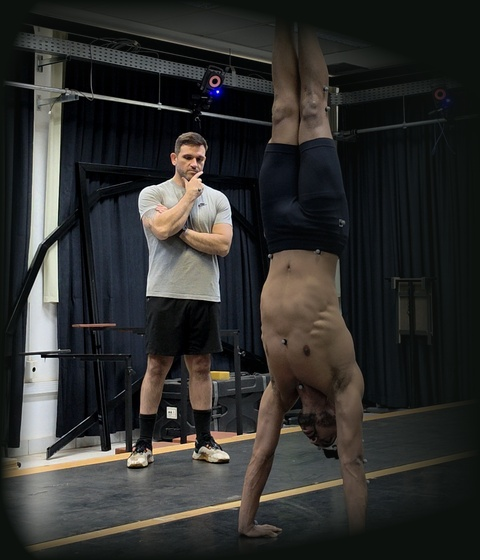
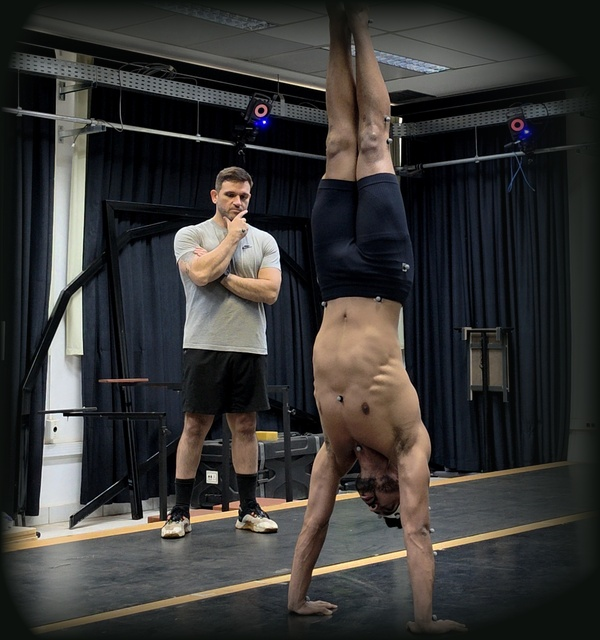
feat(analysis): expand handstand athlete visibility in hero card, generalize text, and add corrective drills chip

diff --git a/demo_treino_completo.html b/demo_treino_completo.html
@@ -279,8 +279,8 @@
     }
     .analysis-hero-img-wrap {
       position: relative;
-      flex: 0 0 160px;
-      min-height: 155px;
+      flex: 0 0 220px;
+      min-height: 165px;
       overflow: hidden;
     }
     .analysis-hero-img-wrap img {
@@ -296,13 +296,13 @@
       top: 0;
       right: 0;
       bottom: 0;
-      width: 60px;
+      width: 32px;
       background: linear-gradient(to right, transparent, #0d110e);
       pointer-events: none;
     }
     .analysis-hero-body {
       flex: 1;
-      padding: 14px 16px 14px 8px;
+      padding: 14px 18px 14px 12px;
       display: flex;
       flex-direction: column;
       justify-content: center;
@@ -346,20 +346,29 @@
       padding: 2px 7px;
       font-weight: 600;
     }
-    @media (max-width: 480px) {
+    @media (max-width: 600px) {
       .analysis-hero-img-wrap {
-        flex: 0 0 130px;
-        min-height: 140px;
+        flex: 0 0 180px;
+        min-height: 150px;
       }
       .analysis-hero-body {
-        padding: 10px 12px 10px 4px;
+        padding: 12px 14px 12px 8px;
+      }
+    }
+    @media (max-width: 440px) {
+      .analysis-hero-img-wrap {
+        flex: 0 0 155px;
+        min-height: 145px;
+      }
+      .analysis-hero-body {
+        padding: 10px 10px 10px 6px;
       }
       .analysis-hero-title {
         font-size: 0.88rem;
       }
       .analysis-hero-desc {
-        font-size: 0.73rem;
-        line-height: 1.4;
+        font-size: 0.72rem;
+        line-height: 1.38;
       }
     }
 
@@ -1959,7 +1968,7 @@
     <!-- HERO: FEEDBACK TÉCNICO & ANÁLISE CINEMÁTICA -->
     <div class="analysis-hero-card">
       <div class="analysis-hero-img-wrap" onclick="window.open('Midia/gui_analisando_handstand.jpg', '_blank')" style="cursor: pointer;" title="Toque para ampliar foto">
-        <img src="Midia/gui_analise_blend.jpg" alt="Prof. Gui Lemos analisando Handstand">
+        <img src="Midia/gui_analise_blend.jpg" alt="Prof. Gui Lemos analisando movimento">
       </div>
       <div class="analysis-hero-body">
         <div class="analysis-hero-tag">
@@ -1968,12 +1977,12 @@
         </div>
         <div class="analysis-hero-title">Devolutiva do Professor Gui Lemos</div>
         <div class="analysis-hero-desc">
-          Mapeamento milimétrico de alavancas, torques articulares e trajetória do centro de massa aplicado diretamente às suas execuções em vídeo.
+          Mapeamento detalhado de ângulos, alavancas e trajetórias para identificar compensações e prescrever ajustes precisos em qualquer movimento do seu treino.
         </div>
         <div class="analysis-hero-chips">
-          <span class="analysis-hero-chip">📐 Correção de Alavancas</span>
-          <span class="analysis-hero-chip">⚡ Torques & CoM</span>
-          <span class="analysis-hero-chip">🎥 Devolutiva em Vídeo</span>
+          <span class="analysis-hero-chip">📐 Ângulos & Alavancas</span>
+          <span class="analysis-hero-chip">⚡ Correção de Compensações</span>
+          <span class="analysis-hero-chip">🎯 Educativos para Pontos Fracos</span>
         </div>
       </div>
     </div>

diff --git a/index.html b/index.html
@@ -646,8 +646,8 @@
     }
     .analysis-hero-img-wrap {
       position: relative;
-      flex: 0 0 160px;
-      min-height: 155px;
+      flex: 0 0 220px;
+      min-height: 165px;
       overflow: hidden;
     }
     .analysis-hero-img-wrap img {
@@ -663,13 +663,13 @@
       top: 0;
       right: 0;
       bottom: 0;
-      width: 60px;
+      width: 32px;
       background: linear-gradient(to right, transparent, #0d110e);
       pointer-events: none;
     }
     .analysis-hero-body {
       flex: 1;
-      padding: 14px 16px 14px 8px;
+      padding: 14px 18px 14px 12px;
       display: flex;
       flex-direction: column;
       justify-content: center;
@@ -713,20 +713,29 @@
       padding: 2px 7px;
       font-weight: 600;
     }
-    @media (max-width: 480px) {
+    @media (max-width: 600px) {
       .analysis-hero-img-wrap {
-        flex: 0 0 130px;
-        min-height: 140px;
+        flex: 0 0 180px;
+        min-height: 150px;
       }
       .analysis-hero-body {
-        padding: 10px 12px 10px 4px;
+        padding: 12px 14px 12px 8px;
+      }
+    }
+    @media (max-width: 440px) {
+      .analysis-hero-img-wrap {
+        flex: 0 0 155px;
+        min-height: 145px;
+      }
+      .analysis-hero-body {
+        padding: 10px 10px 10px 6px;
       }
       .analysis-hero-title {
         font-size: 0.88rem;
       }
       .analysis-hero-desc {
-        font-size: 0.73rem;
-        line-height: 1.4;
+        font-size: 0.72rem;
+        line-height: 1.38;
       }
     }
 
@@ -1964,7 +1973,7 @@
     <!-- HERO: FEEDBACK TÉCNICO & ANÁLISE CINEMÁTICA -->
     <div class="analysis-hero-card">
       <div class="analysis-hero-img-wrap" onclick="window.open('Midia/gui_analisando_handstand.jpg', '_blank')" style="cursor: pointer;" title="Toque para ampliar foto">
-        <img src="Midia/gui_analise_blend.jpg" alt="Prof. Gui Lemos analisando Handstand">
+        <img src="Midia/gui_analise_blend.jpg" alt="Prof. Gui Lemos analisando movimento">
       </div>
       <div class="analysis-hero-body">
         <div class="analysis-hero-tag">
@@ -1973,12 +1982,12 @@
         </div>
         <div class="analysis-hero-title">Precisão Biomecânica do Movimento</div>
         <div class="analysis-hero-desc">
-          Mapeamento milimétrico de alavancas, torques articulares e trajetória do centro de massa para correção e evolução técnica contínua.
+          Mapeamento detalhado de ângulos, alavancas e trajetórias para identificar compensações e prescrever ajustes precisos em qualquer movimento acrobático, gímnico ou de força.
         </div>
         <div class="analysis-hero-chips">
           <span class="analysis-hero-chip">📐 Ângulos & Alavancas</span>
-          <span class="analysis-hero-chip">⚡ Torques & CoM</span>
-          <span class="analysis-hero-chip">🎥 Devolutivas em Vídeo</span>
+          <span class="analysis-hero-chip">⚡ Correção de Compensações</span>
+          <span class="analysis-hero-chip">🎯 Educativos para Pontos Fracos</span>
         </div>
       </div>
     </div>

diff --git a/treino.html b/treino.html
@@ -646,8 +646,8 @@
     }
     .analysis-hero-img-wrap {
       position: relative;
-      flex: 0 0 160px;
-      min-height: 155px;
+      flex: 0 0 220px;
+      min-height: 165px;
       overflow: hidden;
     }
     .analysis-hero-img-wrap img {
@@ -663,13 +663,13 @@
       top: 0;
       right: 0;
       bottom: 0;
-      width: 60px;
+      width: 32px;
       background: linear-gradient(to right, transparent, #0d110e);
       pointer-events: none;
     }
     .analysis-hero-body {
       flex: 1;
-      padding: 14px 16px 14px 8px;
+      padding: 14px 18px 14px 12px;
       display: flex;
       flex-direction: column;
       justify-content: center;
@@ -713,20 +713,29 @@
       padding: 2px 7px;
       font-weight: 600;
     }
-    @media (max-width: 480px) {
+    @media (max-width: 600px) {
       .analysis-hero-img-wrap {
-        flex: 0 0 130px;
-        min-height: 140px;
+        flex: 0 0 180px;
+        min-height: 150px;
       }
       .analysis-hero-body {
-        padding: 10px 12px 10px 4px;
+        padding: 12px 14px 12px 8px;
+      }
+    }
+    @media (max-width: 440px) {
+      .analysis-hero-img-wrap {
+        flex: 0 0 155px;
+        min-height: 145px;
+      }
+      .analysis-hero-body {
+        padding: 10px 10px 10px 6px;
       }
       .analysis-hero-title {
         font-size: 0.88rem;
       }
       .analysis-hero-desc {
-        font-size: 0.73rem;
-        line-height: 1.4;
+        font-size: 0.72rem;
+        line-height: 1.38;
       }
     }
 
@@ -1964,7 +1973,7 @@
     <!-- HERO: FEEDBACK TÉCNICO & ANÁLISE CINEMÁTICA -->
     <div class="analysis-hero-card">
       <div class="analysis-hero-img-wrap" onclick="window.open('Midia/gui_analisando_handstand.jpg', '_blank')" style="cursor: pointer;" title="Toque para ampliar foto">
-        <img src="Midia/gui_analise_blend.jpg" alt="Prof. Gui Lemos analisando Handstand">
+        <img src="Midia/gui_analise_blend.jpg" alt="Prof. Gui Lemos analisando movimento">
       </div>
       <div class="analysis-hero-body">
         <div class="analysis-hero-tag">
@@ -1973,12 +1982,12 @@
         </div>
         <div class="analysis-hero-title">Precisão Biomecânica do Movimento</div>
         <div class="analysis-hero-desc">
-          Mapeamento milimétrico de alavancas, torques articulares e trajetória do centro de massa para correção e evolução técnica contínua.
+          Mapeamento detalhado de ângulos, alavancas e trajetórias para identificar compensações e prescrever ajustes precisos em qualquer movimento acrobático, gímnico ou de força.
         </div>
         <div class="analysis-hero-chips">
           <span class="analysis-hero-chip">📐 Ângulos & Alavancas</span>
-          <span class="analysis-hero-chip">⚡ Torques & CoM</span>
-          <span class="analysis-hero-chip">🎥 Devolutivas em Vídeo</span>
+          <span class="analysis-hero-chip">⚡ Correção de Compensações</span>
+          <span class="analysis-hero-chip">🎯 Educativos para Pontos Fracos</span>
         </div>
       </div>
     </div>
